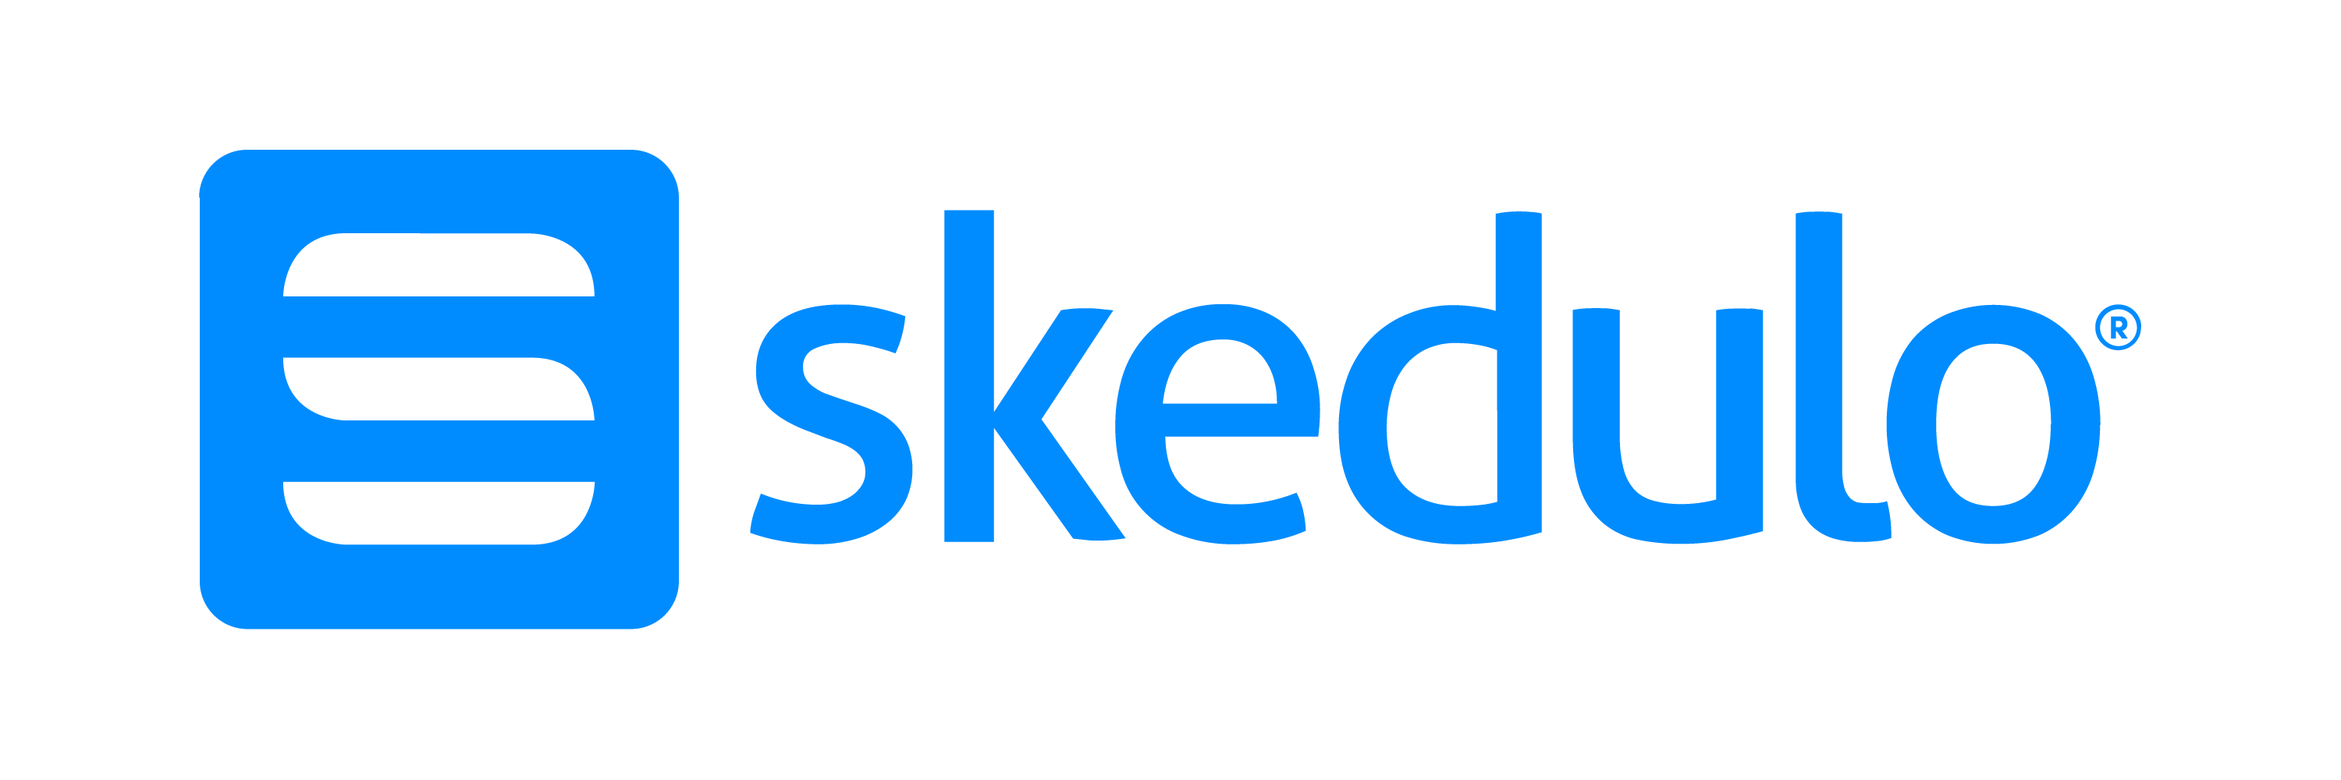
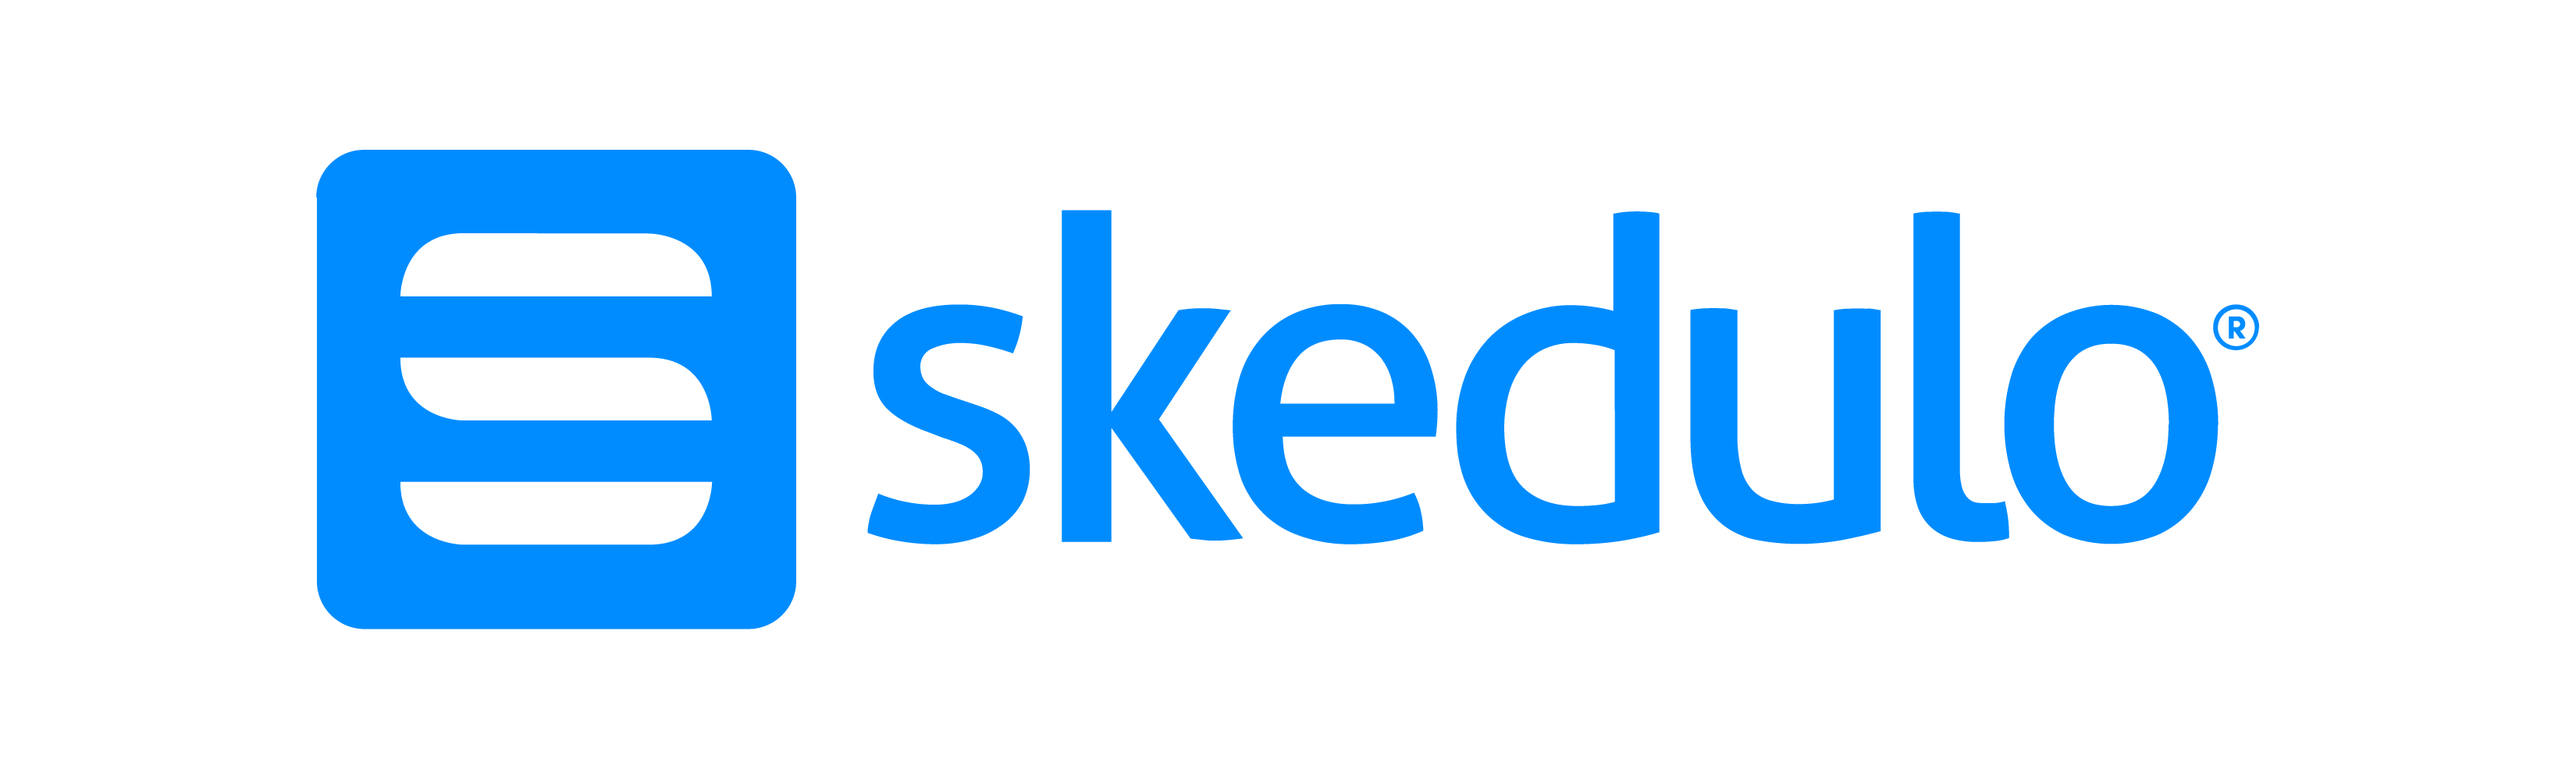
commbank

diff --git a/_includes/sponsors.html b/_includes/sponsors.html
@@ -35,9 +35,14 @@
     -->
   </div>
   <div class="row">
-    <div class="col s4 offset-s4 m2 offset-m5 l2 offset-l5">
+    <div class="col s5 offset-s1 m3 offset-m3 l3 offset-l3">
       <a href="https://www.skedulo.com/" target="_blank">
         <img class="sponsor-img" src="/img/sponsors/skedulo.png">
+      </a>
+    </div>
+    <div class="col s5 m3 l3">
+      <a href="https://www.commbank.com.au/" target="_blank">
+        <img class="sponsor-img" src="/img/sponsors/commbank.png">
       </a>
     </div>
   </div>
